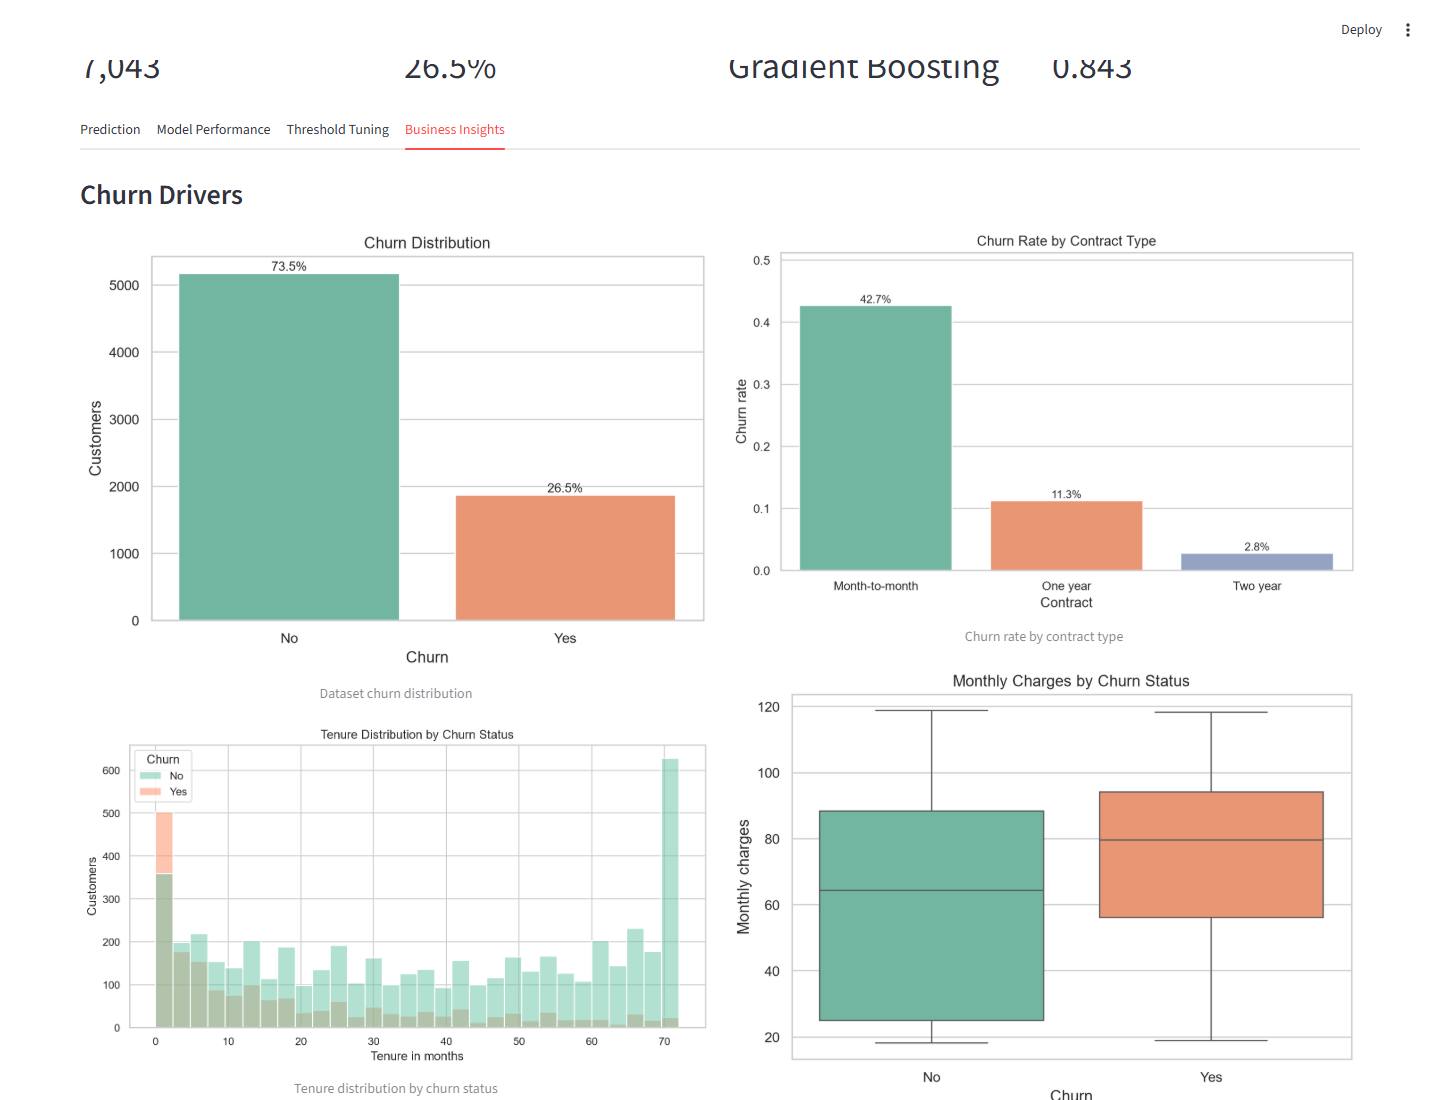
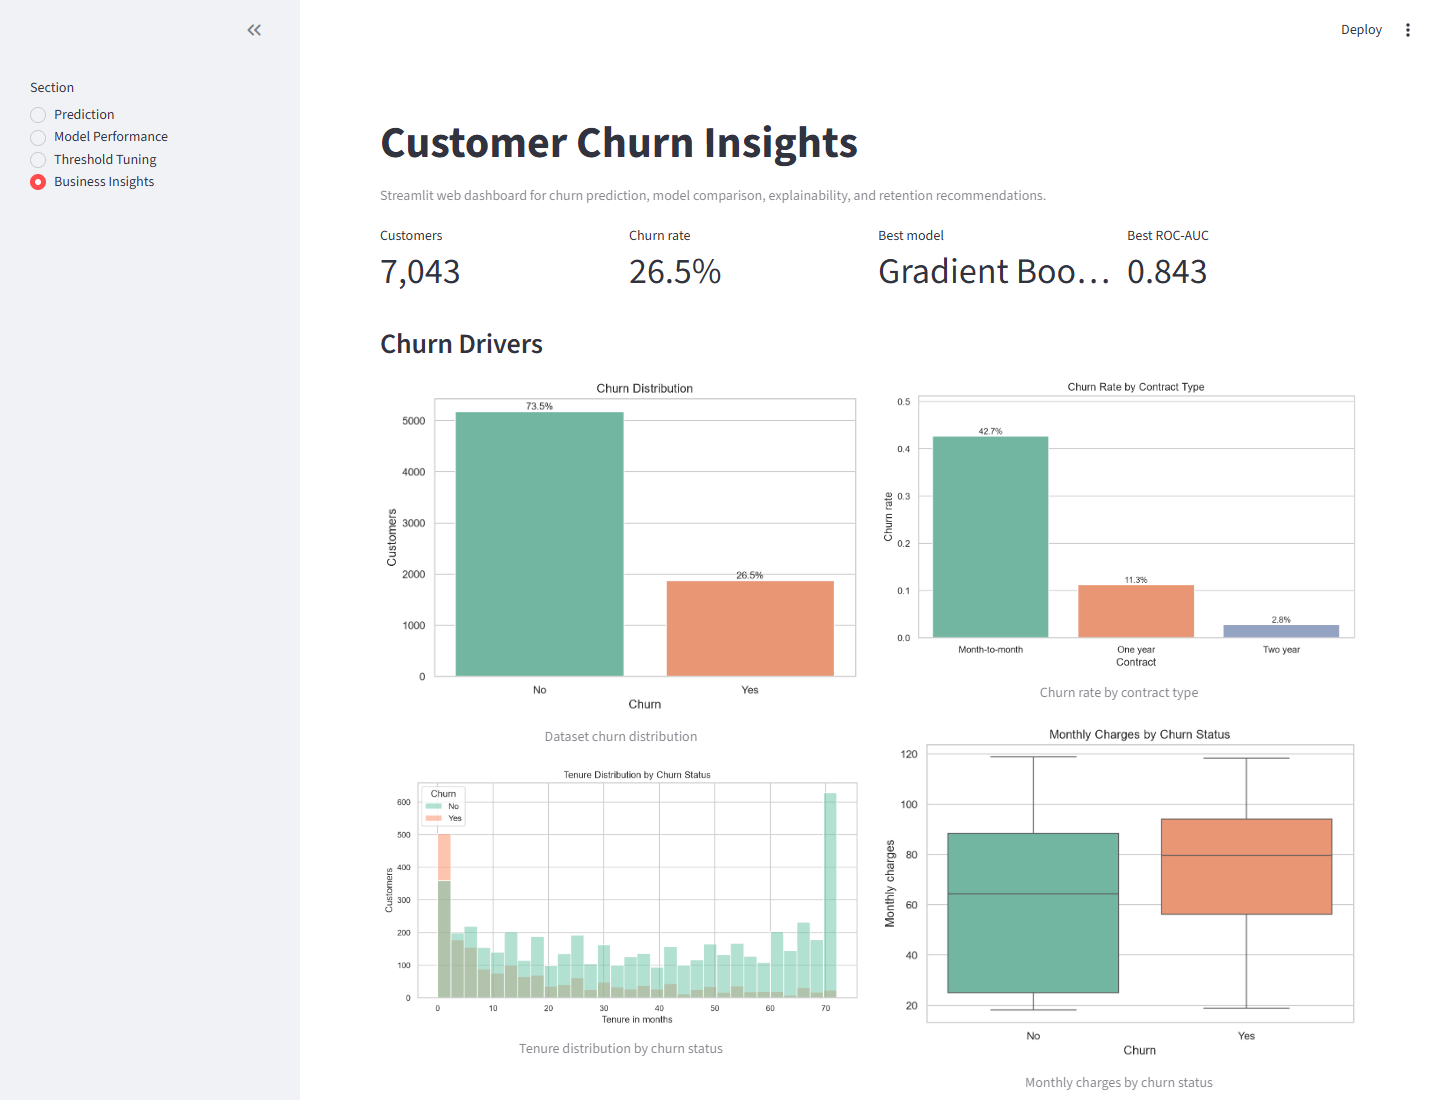
Update dashboard screenshots for sidebar navigation

diff --git a/scripts/capture_dashboard_screenshots.py b/scripts/capture_dashboard_screenshots.py
@@ -1,4 +1,4 @@
-from pathlib import Path
+from pathlib import Path
 
 from playwright.sync_api import sync_playwright
 
@@ -8,6 +8,12 @@ SCREENSHOT_DIR = PROJECT_ROOT / "reports" / "screenshots"
 DASHBOARD_URL = "http://localhost:8501"
 CHROME_PATH = Path("C:/Program Files/Google/Chrome/Application/chrome.exe")
 EDGE_PATH = Path("C:/Program Files (x86)/Microsoft/Edge/Application/msedge.exe")
+SECTION_Y = {
+    "Prediction": 114,
+    "Model Performance": 137,
+    "Threshold Tuning": 160,
+    "Business Insights": 183,
+}
 
 
 def browser_path() -> str:
@@ -23,9 +29,10 @@ def capture(page, filename: str) -> None:
     page.screenshot(path=str(SCREENSHOT_DIR / filename), full_page=True)
 
 
-def click_tab(page, label: str) -> None:
-    page.get_by_role("tab", name=label).click()
-    page.wait_for_timeout(1500)
+def open_section(page, label: str, expected_text: str) -> None:
+    page.mouse.click(70, SECTION_Y[label])
+    page.wait_for_selector(f"text={expected_text}", timeout=30000)
+    page.wait_for_timeout(1000)
 
 
 def main() -> None:
@@ -34,19 +41,21 @@ def main() -> None:
     with sync_playwright() as playwright:
         browser = playwright.chromium.launch(executable_path=browser_path(), headless=True)
         page = browser.new_page(viewport={"width": 1440, "height": 1100}, device_scale_factor=1)
-        page.goto(DASHBOARD_URL, wait_until="networkidle")
+        page.goto(DASHBOARD_URL, wait_until="domcontentloaded")
         page.wait_for_selector("text=Customer Churn Insights", timeout=30000)
 
+        open_section(page, "Prediction", "Customer Risk Prediction")
         page.get_by_role("button", name="Predict churn risk").click()
+        page.wait_for_selector("text=Churn probability", timeout=30000)
         capture(page, "dashboard_prediction.png")
 
-        click_tab(page, "Model Performance")
+        open_section(page, "Model Performance", "Model Comparison")
         capture(page, "dashboard_model_performance.png")
 
-        click_tab(page, "Threshold Tuning")
+        open_section(page, "Threshold Tuning", "Best F1 threshold")
         capture(page, "dashboard_threshold_tuning.png")
 
-        click_tab(page, "Business Insights")
+        open_section(page, "Business Insights", "Retention Actions")
         capture(page, "dashboard_business_insights.png")
 
         browser.close()
@@ -56,4 +65,3 @@ def main() -> None:
 
 if __name__ == "__main__":
     main()
-

diff --git a/app/streamlit_app.py b/app/streamlit_app.py
@@ -148,7 +148,7 @@ def show_metric_cards(comparison: pd.DataFrame | None) -> None:
 def image_or_warning(filename: str, caption: str) -> None:
     path = FIGURES_DIR / filename
     if path.exists():
-        st.image(str(path), caption=caption, use_container_width=True)
+        st.image(str(path), caption=caption, width="stretch")
     else:
         st.warning(f"Missing report figure: {filename}. Run `python scripts/generate_reports.py`.")
 
@@ -177,7 +177,7 @@ def render_prediction() -> None:
         right.write(f"Decision threshold: {decision_threshold:.2f}")
 
         with st.expander("Input customer profile"):
-            st.dataframe(customer, use_container_width=True)
+            st.dataframe(customer, width="stretch")
 
 
 def render_performance(comparison: pd.DataFrame | None) -> None:
@@ -193,7 +193,7 @@ def render_performance(comparison: pd.DataFrame | None) -> None:
                     "roc_auc": "{:.3f}",
                 }
             ),
-            use_container_width=True,
+            width="stretch",
         )
     else:
         st.warning("Missing model comparison. Run `python -m src.train`.")
@@ -231,7 +231,7 @@ def render_threshold_tuning() -> None:
                     "predicted_churn_rate": "{:.1%}",
                 }
             ),
-            use_container_width=True,
+            width="stretch",
         )
     else:
         st.warning("Missing threshold analysis. Run `python scripts/generate_reports.py`.")
@@ -254,7 +254,7 @@ def render_business_insights() -> None:
     if importance is not None:
         st.dataframe(
             importance.head(10).style.format({"importance_mean": "{:.4f}", "importance_std": "{:.4f}"}),
-            use_container_width=True,
+            width="stretch",
         )
     else:
         st.warning("Missing permutation importance table. Run `python scripts/generate_reports.py`.")

diff --git a/README.md b/README.md
@@ -62,6 +62,8 @@ streamlit run app/streamlit_app.py
 
 ## Dashboard Screenshots
 
+The deployed dashboard uses a left sidebar to switch between prediction, model performance, threshold tuning, and business insight views.
+
 ### Prediction View
 
 ![Dashboard Prediction](reports/screenshots/dashboard_prediction.png)
